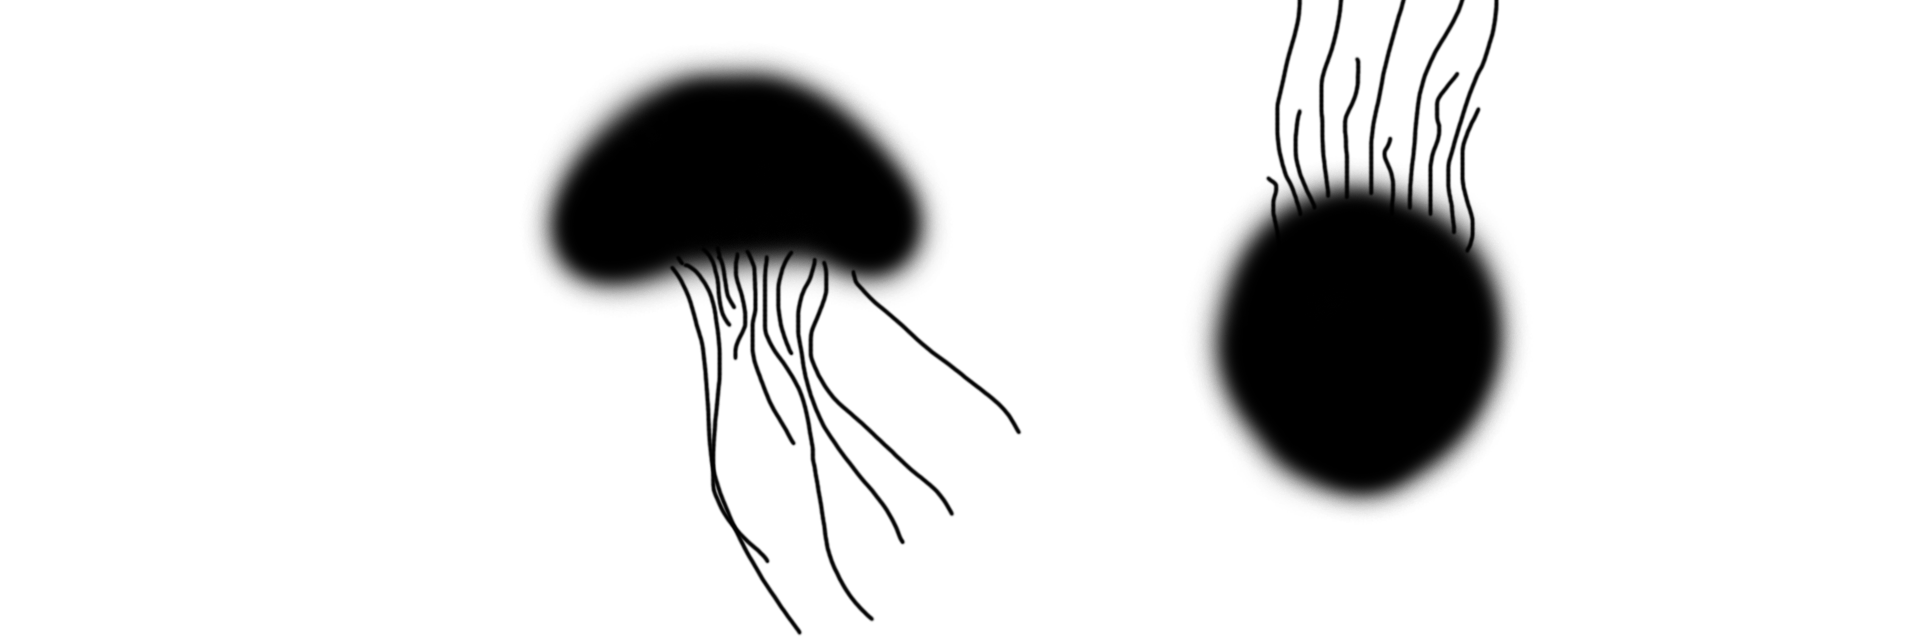
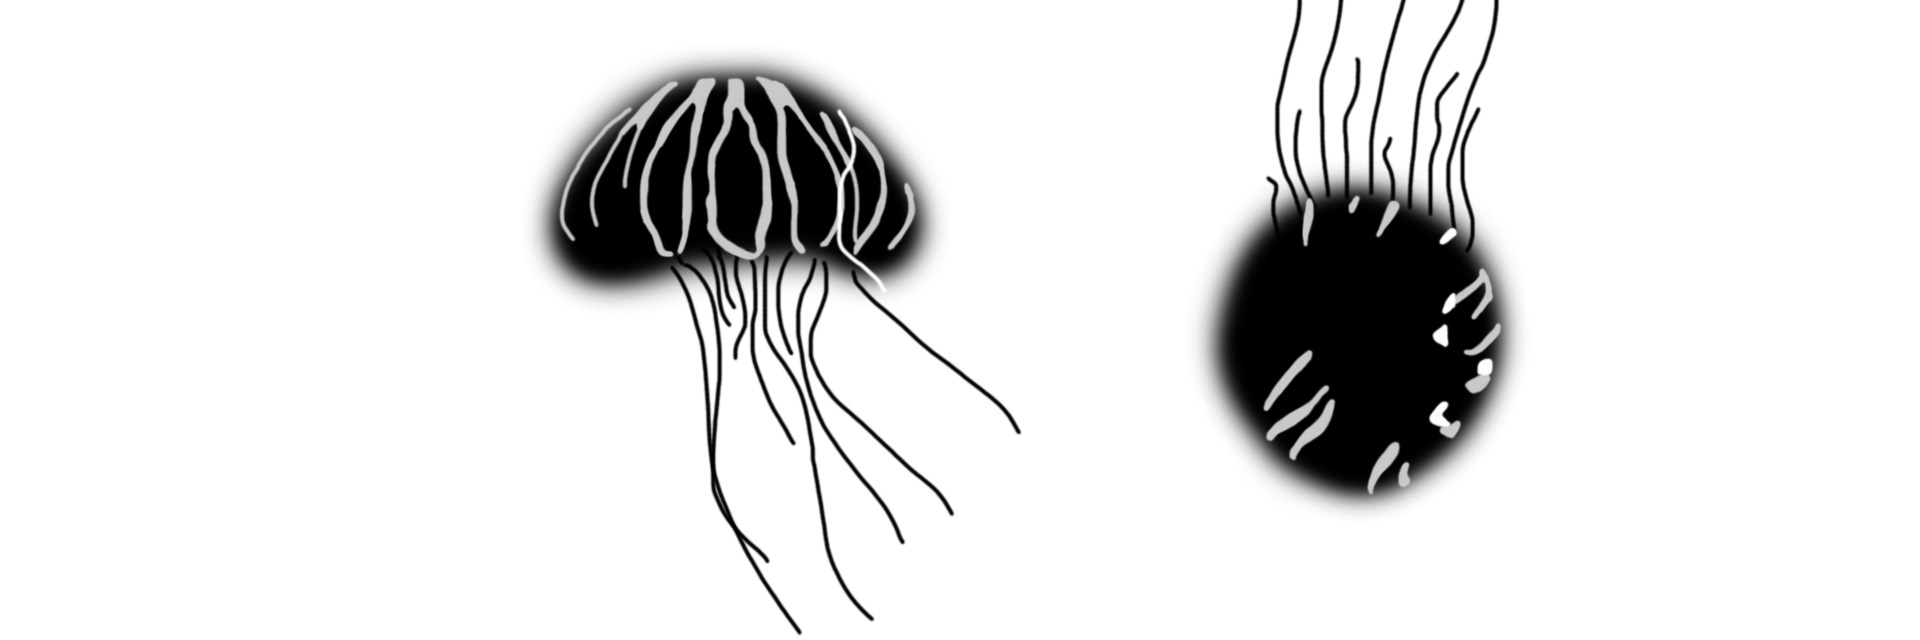
update

diff --git a/sketch.js b/sketch.js
@@ -3,9 +3,9 @@ let maskImg = null;
 let renderCounter = 0;
 
 // change these three lines as appropiate
-let sourceFile = "input_2.jpg";
-let maskFile   = "mask_2.png";
-let outputFile = "output_2.png";
+let sourceFile = "input_1.jpg";
+let maskFile   = "mask_1.png";
+let outputFile = "output_1.png";
 
 function preload() {
   sourceImg = loadImage(sourceFile);
@@ -18,13 +18,13 @@ function setup () {
 
   imageMode(CENTER);
   noStroke();
-  background(60, 0, 128);
+  background(174, 96, 230);
   sourceImg.loadPixels();
   maskImg.loadPixels();
 }
 
 function draw () {
-  for(let i = 0; i < 5000; i++) {
+  for(let i = 0; i < 6000; i++) {
 
     let x = floor(random(sourceImg.width));
     let y = floor(random(sourceImg.height));
@@ -34,7 +34,6 @@ function draw () {
     fill(pix);
     stroke(pix);
 
-
     if(mask[0] >= 0 && mask[0] < 150) {            // black mask
       let pointSize = 12;
       push();
@@ -43,14 +42,15 @@ function draw () {
       pop();
     }
     else if(mask[0] >= 201 && mask[0] < 250) {      // grey mask
-      let pointSize = 50;
+      let pointSize = 15;
       push();
-      strokeWeight(3);
-      line(x, y, x + pointSize, y + 20);
+      fill(pix[0],pix[1],pix[2]);
+      strokeWeight(2);
+      line(x, y, x + pointSize, y + 5);
       pop();
     }
     else {                                          // white mask
-      let pointSize = 10;
+      let pointSize = 11;
       ellipse(x, y, pointSize, pointSize);
     }
   }

diff --git a/README.md b/README.md
@@ -1,5 +1,3 @@
 ## Creative Coding 2: Custom Pixel
 
-I finally added the grey mask to have that sort of outline effect for depth of the jellyfish. For this I used lines, going the opposite direction of the lines for the black mask. I also decided to use the lightest shade possible of grey, so that there would also be some white mask elements added, where there would be circles too.
-
-I’ve thought about adding grids and specific shapes, but I decided not to as the photo itself already conveys so much. I feel like adding more complex shapes would have overflow of the image, which isn’t my goal for this project. I want to show jellyfish in an artistic sense, and I want the image to look expressive both up close and from afar. I might play around a bit with the colours to express more purple. 
+I’ve added grey masks for the rest of the images and have settled on final numbers that best suit all the images. It was a bit difficult to do this as the render time took way too long, but the final outcome was worth it! I really am fond of how these simple codes convey the image very well. I definitely think that adding more complex shapes and more effects would’ve dimmed down the abstractness of the image, as the image itself is already pretty abstract. 
